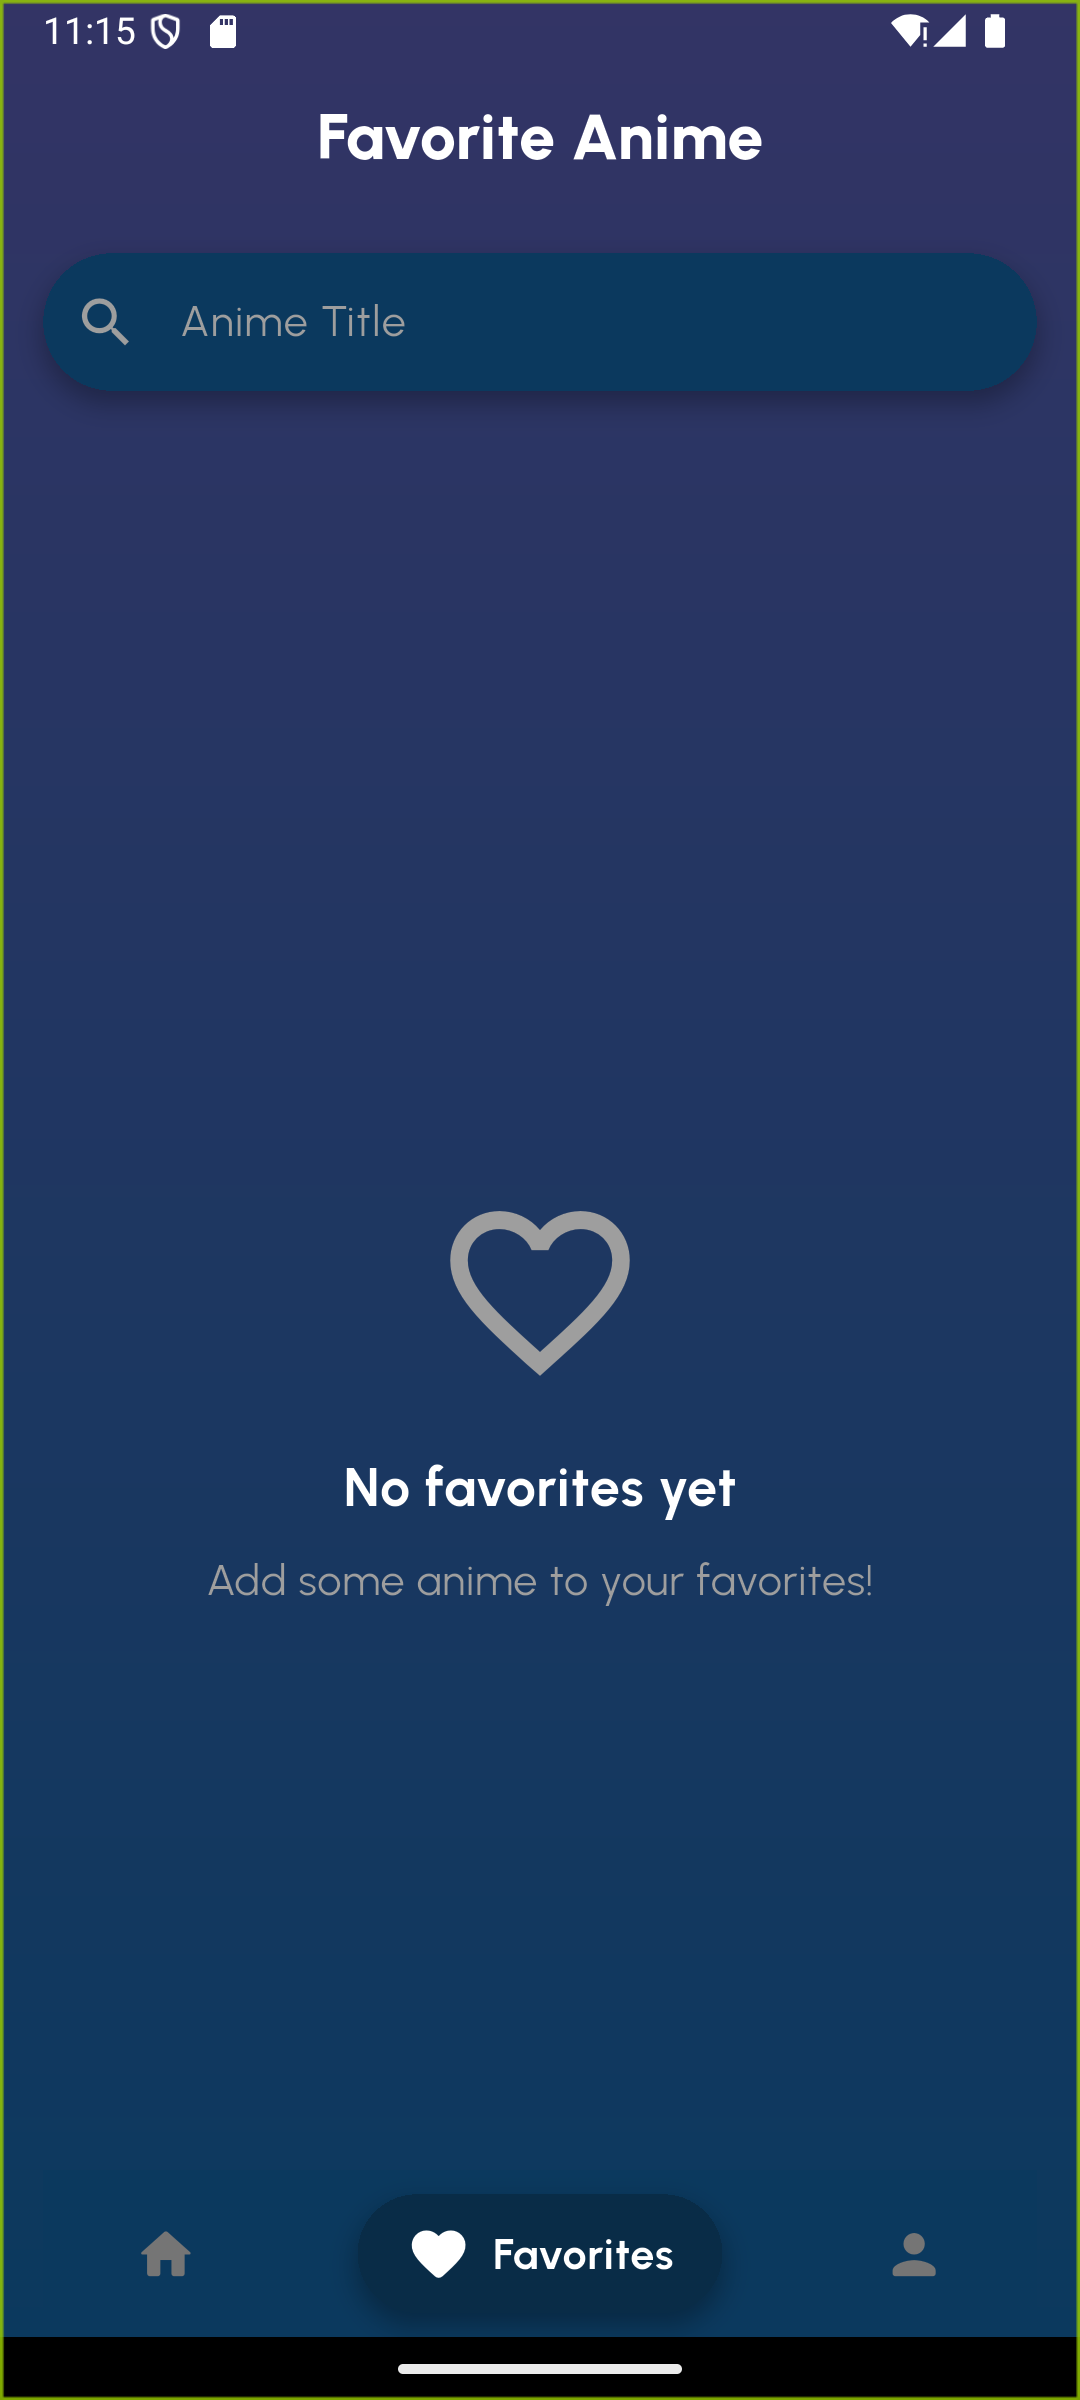
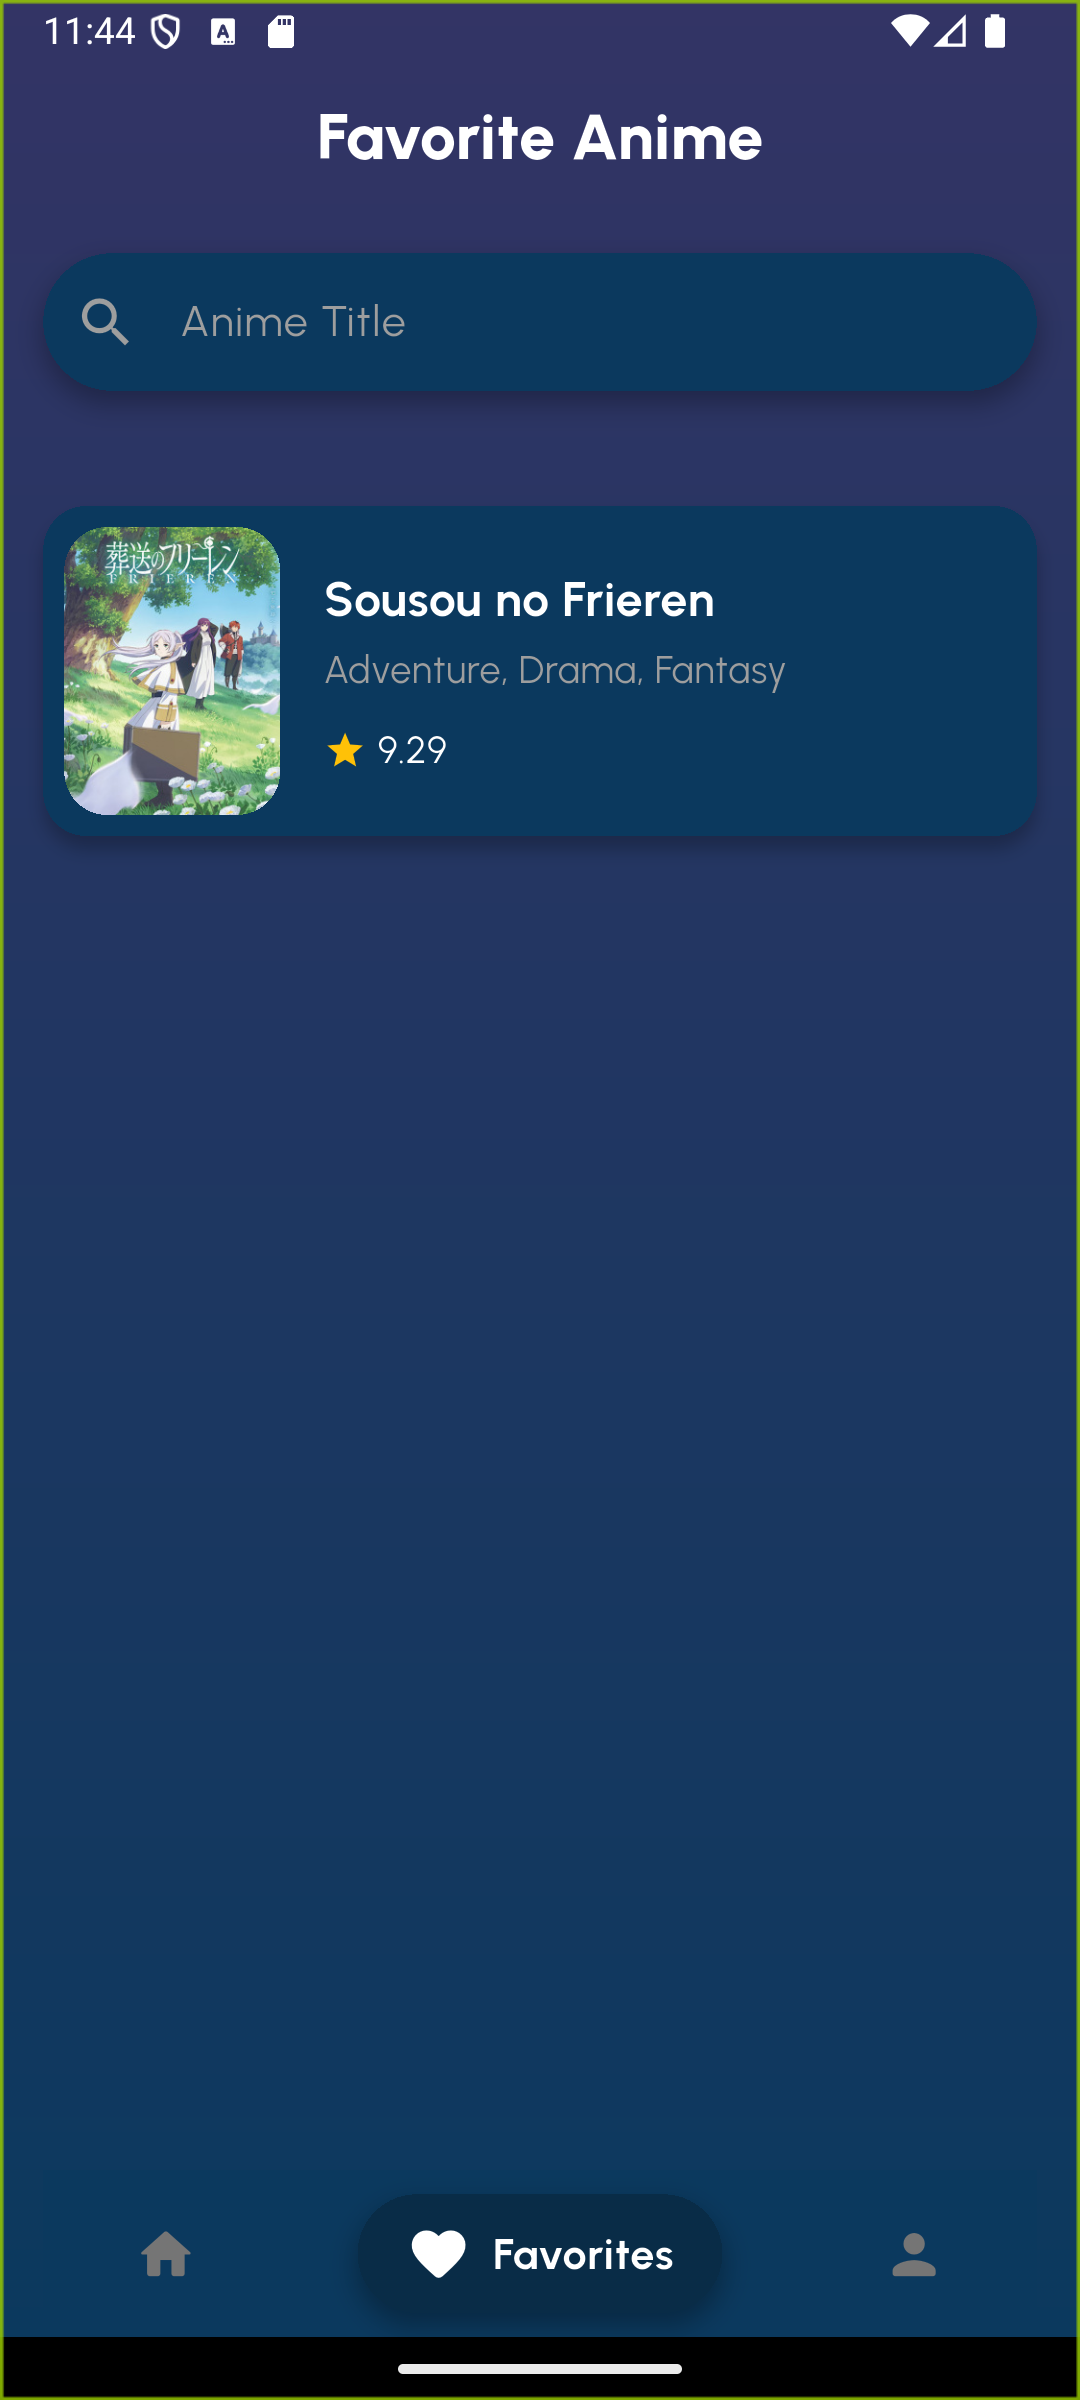
add screeenshots

diff --git a/README.md b/README.md
@@ -242,6 +242,22 @@ Setiap kartu anime menampilkan poster, judul, genre, dan rating untuk membantu p
 
 ---
 
+### 📖 Halaman Detail Anime
+
+![Halaman Detail Anime](assets/screenshots/tampilan_tab_anime.png)
+
+Halaman detail anime menampilkan informasi lengkap tentang anime yang dipilih:
+- **Header Image** - Poster besar anime dengan efek parallax scrolling
+- **Judul & Genre** - Informasi utama anime ditampilkan di header
+- **Tombol Favorit** - Tambah atau hapus anime dari daftar favorit
+- **Rating & Episode** - Rating bintang dan jumlah total episode
+- **Sinopsis** - Deskripsi lengkap tentang cerita anime
+- **Back Navigation** - Kembali ke halaman sebelumnya dengan mudah
+
+Halaman ini memberikan pengalaman yang imersif untuk menjelajahi detail setiap anime sebelum menambahkannya ke favorit.
+
+---
+
 ### ⭐ Halaman Favorit
 
 ![Halaman Favorit](assets/screenshots/tampilan_favorit.png)
